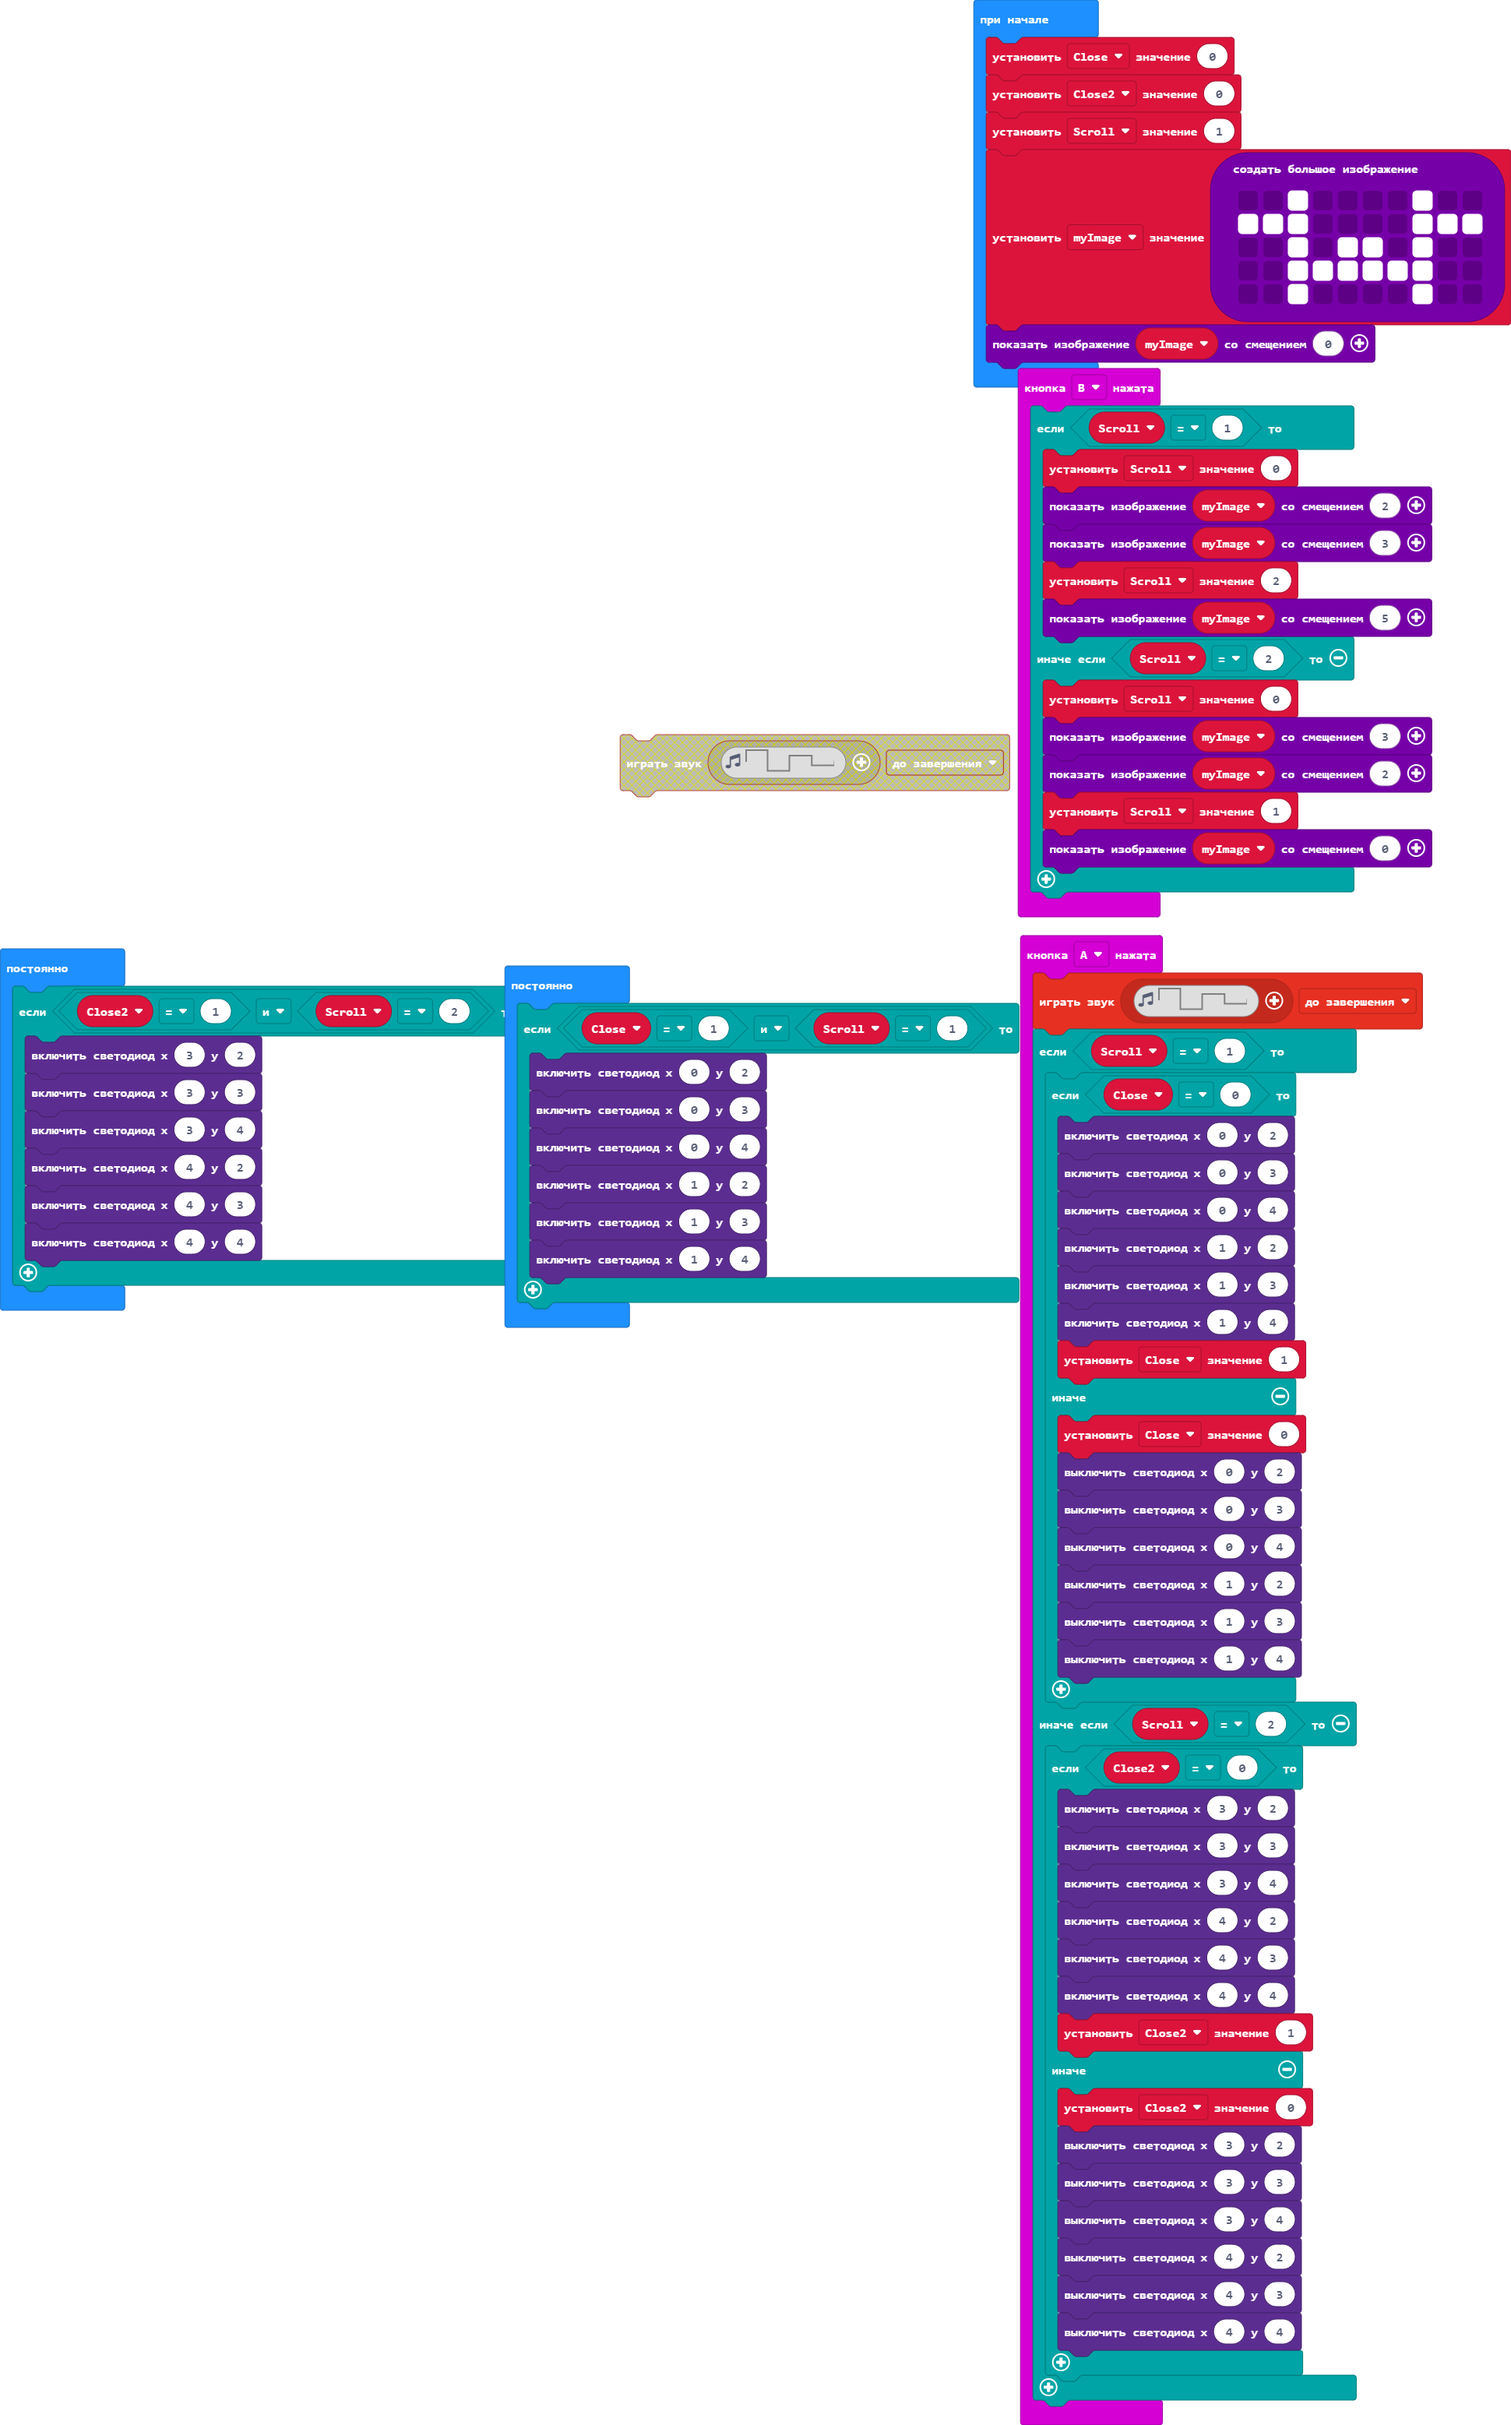
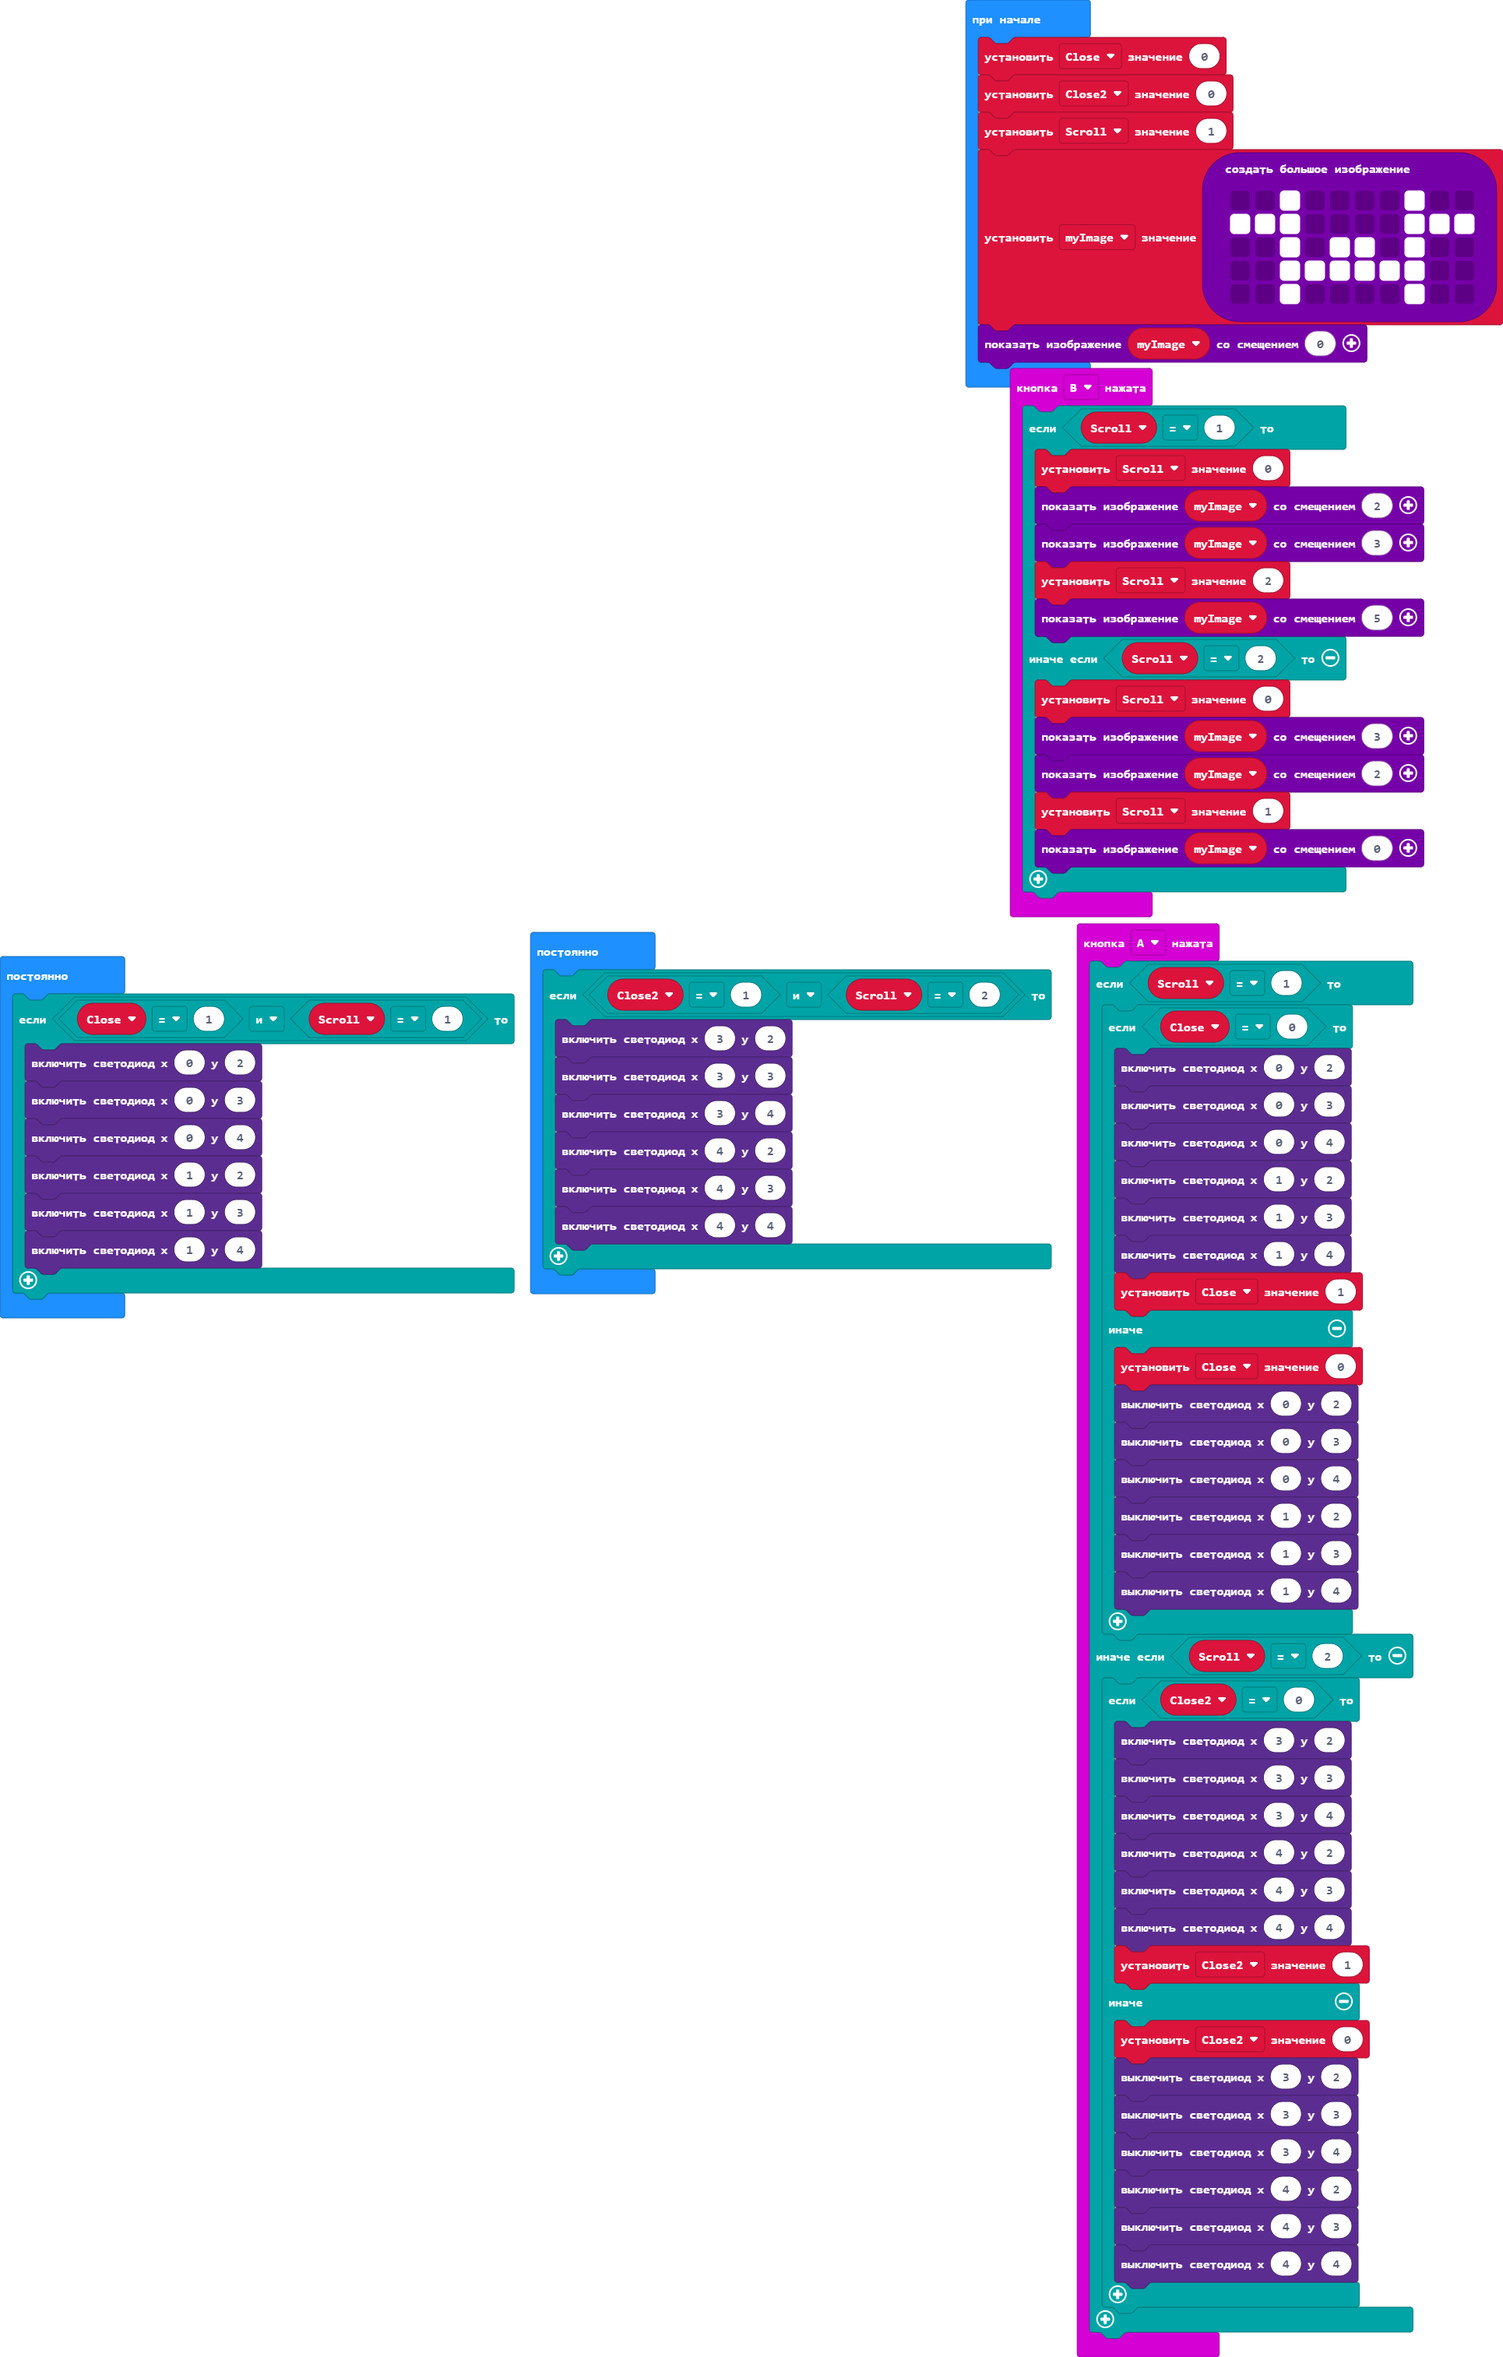
Обновить main.blocks, main.ts, main.py

Changed region(s): [[0.0, 0.0, 1.0, 1.0]]

diff --git a/main.ts b/main.ts
@@ -1,5 +1,4 @@
 input.onButtonPressed(Button.A, function () {
-    music.playSoundEffect(music.createSoundEffect(WaveShape.Square, 500, 1, 255, 0, 400, SoundExpressionEffect.None, InterpolationCurve.Linear), SoundExpressionPlayMode.UntilDone)
     if (Scroll == 1) {
         if (Close == 0) {
             led.plot(0, 2)
@@ -69,16 +68,6 @@ myImage = images.createBigImage(`
     `)
 myImage.showImage(0)
 basic.forever(function () {
-    if (Close2 == 1 && Scroll == 2) {
-        led.plot(3, 2)
-        led.plot(3, 3)
-        led.plot(3, 4)
-        led.plot(4, 2)
-        led.plot(4, 3)
-        led.plot(4, 4)
-    }
-})
-basic.forever(function () {
     if (Close == 1 && Scroll == 1) {
         led.plot(0, 2)
         led.plot(0, 3)
@@ -86,5 +75,15 @@ basic.forever(function () {
         led.plot(1, 2)
         led.plot(1, 3)
         led.plot(1, 4)
+    }
+})
+basic.forever(function () {
+    if (Close2 == 1 && Scroll == 2) {
+        led.plot(3, 2)
+        led.plot(3, 3)
+        led.plot(3, 4)
+        led.plot(4, 2)
+        led.plot(4, 3)
+        led.plot(4, 4)
     }
 })

diff --git a/main.py b/main.py
@@ -62,7 +62,7 @@ Scroll = 1
 myImage = images.create_big_image("""
     . . # . . . . # . .
         # # # . . . . # # #
-        . . # . . . . # . .
+        . . # . # # . # . .
         . . # # # # # # . .
         . . # . . . . # . .
 """)
